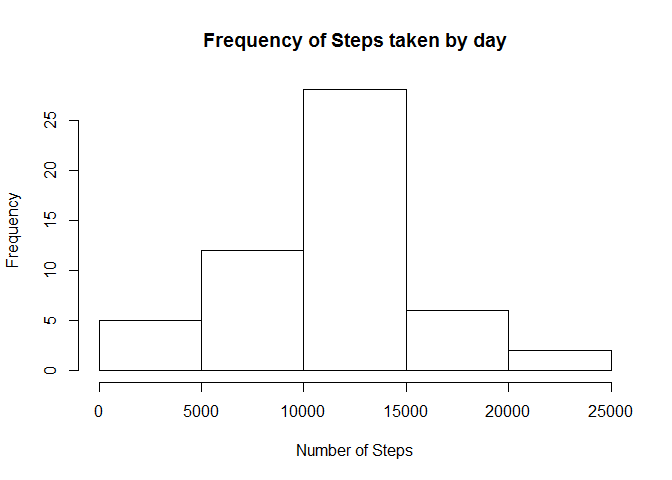
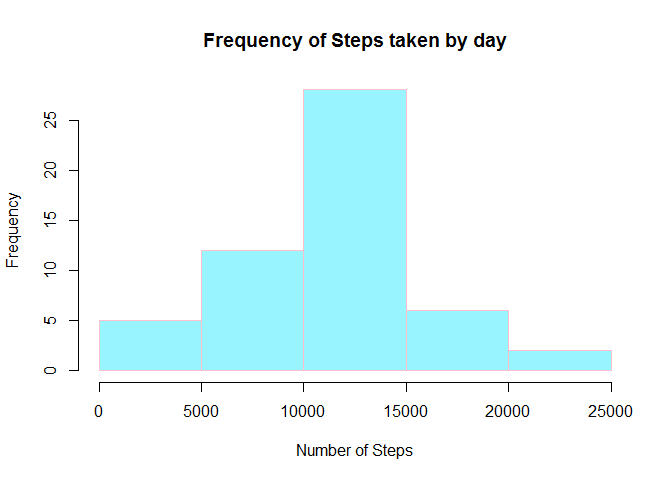
Improved graphs layout and doc format

Changed region(s): [[0.125, 0.1875, 0.9375, 0.7812]]

diff --git a/PA1_template.html b/PA1_template.html
@@ -57,16 +57,23 @@ if (window.hljs && document.readyState && document.readyState === "complete") {
 
 <div id="loading-and-preprocessing-the-data" class="section level3">
 <h3>Loading and preprocessing the data</h3>
+<blockquote>
 <p>Show any code that is needed to</p>
-<ol style="list-style-type: decimal">
-<li><p>Load the data (i.e. <code>read.csv()</code>)</p></li>
-<li><p>Process/transform the data (if necessary) into a format suitable for your analysis</p></li>
-</ol>
+</blockquote>
+<blockquote>
+<blockquote>
+<p>1. Load the data (i.e. <code>read.csv()</code>)</p>
+</blockquote>
+</blockquote>
+<blockquote>
+<blockquote>
+<p>2. Process/transform the data (if necessary) into a format suitable for your analysis</p>
+</blockquote>
+</blockquote>
 <pre class="r"><code>setwd(&quot;C:/Users/Yago/Documents/Statistical Studies/The Data Science Track/Reproducible Research/Assignment 1&quot;)
 require(&quot;dplyr&quot;)</code></pre>
-<pre><code>## Loading required package: dplyr</code></pre>
-<pre><code>## Warning: package 'dplyr' was built under R version 3.1.2</code></pre>
-<pre><code>## 
+<pre><code>## Loading required package: dplyr
+## 
 ## Attaching package: 'dplyr'
 ## 
 ## The following object is masked from 'package:stats':
@@ -85,29 +92,35 @@ data&lt;-tbl_df(data)</code></pre>
 <div id="what-is-mean-total-number-of-steps-taken-per-day" class="section level3">
 <h3>What is mean total number of steps taken per day?</h3>
 <p>For this part of the assignment, you can ignore the missing values in the dataset.</p>
-<ol style="list-style-type: decimal">
-<li>Make a histogram of the total number of steps taken each day</li>
-</ol>
+<blockquote>
+<blockquote>
+<p>1. Make a histogram of the total number of steps taken each day</p>
+</blockquote>
+</blockquote>
 <pre class="r"><code>by_day&lt;-
      data %&gt;% 
      group_by(date) %&gt;% 
      summarise(total.steps=sum(steps))
 
-hist(by_day$total.steps, xlab= &quot;Number of Steps&quot;, main=&quot;Frequency of Steps taken by day&quot;)</code></pre>
[1 lines of base64/hex data omitted]
-<ol start="2" style="list-style-type: decimal">
-<li>Calculate and report the <strong>mean</strong> and <strong>median</strong> total number of steps taken per day</li>
-</ol>
+hist(by_day$total.steps, col=&quot;cadetblue1&quot;, border=&quot;pink&quot;, xlab= &quot;Number of Steps&quot;, main=&quot;Frequency of Steps taken by day&quot;)</code></pre>
[1 lines of base64/hex data omitted]
+<blockquote>
+<blockquote>
+<p>2. Calculate and report the <strong>mean</strong> and <strong>median</strong> total number of steps taken per day</p>
+</blockquote>
+</blockquote>
 <pre class="r"><code>mean&lt;-mean((by_day$total.steps), na.rm=TRUE)
 median&lt;-median((by_day$total.steps), na.rm=TRUE)</code></pre>
-<p>The <strong>mean</strong> total number of steps taken per day is 10766.19.</p>
-<p>The <strong>median</strong> total number of steps taken per day is 10765.</p>
+<p>The <strong>mean</strong> total number of steps taken per day is <strong>10766.19</strong>.</p>
+<p>The <strong>median</strong> total number of steps taken per day is <strong>10765</strong>.</p>
 </div>
 <div id="what-is-the-average-daily-activity-pattern" class="section level3">
 <h3>What is the average daily activity pattern?</h3>
-<ol style="list-style-type: decimal">
-<li>Make a time series plot (i.e. type = “l”) of the 5-minute interval (x-axis) and the average number of steps taken, averaged across all days (y-axis)</li>
-</ol>
+<blockquote>
+<blockquote>
+<p>1. Make a time series plot (i.e. type = “l”) of the 5-minute interval (x-axis) and the average number of steps taken, averaged across all days (y-axis)</p>
+</blockquote>
+</blockquote>
 <pre class="r"><code>data$five.interval&lt;-as.factor(data$interval)
 five_Interval&lt;-
      data %&gt;%
@@ -116,12 +129,14 @@ five_Interval&lt;-
 
 five_Interval$interval &lt;- as.numeric(as.character(five_Interval$five.interval))
 
-plot(five_Interval$interval, five_Interval$mean.steps, type = &quot;l&quot;, xlab=&quot;5-Minute Intervals&quot;, 
+plot(five_Interval$interval, five_Interval$mean.steps, type = &quot;l&quot;, col=4, xlab=&quot;5-Minute Intervals&quot;, 
       ylab=&quot;Mean Steps&quot;, main=&quot;Average Daily Activity Pattern&quot; )</code></pre>
[1 lines of base64/hex data omitted]
-<ol start="2" style="list-style-type: decimal">
-<li>Which 5-minute interval, on average across all the days in the dataset, contains the maximum number of steps?</li>
-</ol>
[1 lines of base64/hex data omitted]
+<blockquote>
+<blockquote>
+<p>2. Which 5-minute interval, on average across all the days in the dataset, contains the maximum number of steps?</p>
+</blockquote>
+</blockquote>
 <pre class="r"><code>max_Steps_Interval&lt;-which.max(five_Interval$mean.steps)
 print(five_Interval[max_Steps_Interval,])</code></pre>
 <pre><code>## Source: local data frame [1 x 3]
@@ -132,57 +147,70 @@ print(five_Interval[max_Steps_Interval,])</code></pre>
 <div id="imputing-missing-values" class="section level3">
 <h3>Imputing missing values</h3>
 <p>Note that there are a number of days/intervals where there are missing values (coded as NA). The presence of missing days may introduce bias into some calculations or summaries of the data.</p>
-<ol style="list-style-type: decimal">
-<li>Calculate and report the total number of missing values in the dataset (i.e. the total number of rows with NAs)</li>
-</ol>
+<blockquote>
+<blockquote>
+<p>1. Calculate and report the total number of missing values in the dataset (i.e. the total number of rows with NAs)</p>
+</blockquote>
+</blockquote>
 <pre class="r"><code>data$weekday &lt;- weekdays(as.Date(data$date))
 data$weekday &lt;- factor(data$weekday, levels= c(&quot;Monday&quot;, 
                                                        &quot;Tuesday&quot;, &quot;Wednesday&quot;, &quot;Thursday&quot;, &quot;Friday&quot;, &quot;Saturday&quot;, &quot;Sunday&quot;))
 
 sum(is.na(data$steps))  </code></pre>
 <pre><code>## [1] 2304</code></pre>
-<ol start="2" style="list-style-type: decimal">
-<li>Devise a strategy for filling in all of the missing values in the dataset. The strategy does not need to be sophisticated. For example, you could use the mean/median for that day, or the mean for that 5-minute interval, etc.</li>
-</ol>
+<blockquote>
+<blockquote>
+<p>2. Devise a strategy for filling in all of the missing values in the dataset. The strategy does not need to be sophisticated. For example, you could use the mean/median for that day, or the mean for that 5-minute interval, etc.</p>
+</blockquote>
+</blockquote>
 <p>I calculated the average number of steps for each day of week/interval combination and completed the dataset by substituting the corresponding value for each day of the week/interval that had NAs.</p>
 <pre class="r"><code>activity_day &lt;- data %&gt;% 
      group_by(weekday, five.interval) %&gt;% 
      summarise(mean.steps = mean(steps, na.rm =TRUE))</code></pre>
-<ol start="3" style="list-style-type: decimal">
-<li>Create a new dataset that is equal to the original dataset but with the missing data filled in.</li>
-</ol>
+<blockquote>
+<blockquote>
+<p>3. Create a new dataset that is equal to the original dataset but with the missing data filled in.</p>
+</blockquote>
+</blockquote>
 <pre class="r"><code>activity_impute &lt;- merge(data, activity_day, by=c(&quot;weekday&quot;,&quot;five.interval&quot;))
 activity_impute$impute.steps &lt;- ifelse(is.na(activity_impute$steps), 
                                        activity_impute$mean.steps, activity_impute$steps)</code></pre>
-<ol start="4" style="list-style-type: decimal">
-<li>Make a histogram of the total number of steps taken each day and Calculate and report the mean and median total number of steps taken per day. Do these values differ from the estimates from the first part of the assignment? What is the impact of imputing missing data on the estimates of the total daily number of steps?</li>
-</ol>
+<blockquote>
+<blockquote>
+<p>4. Make a histogram of the total number of steps taken each day and Calculate and report the mean and median total number of steps taken per day. Do these values differ from the estimates from the first part of the assignment? What is the impact of imputing missing data on the estimates of the total daily number of steps?</p>
+</blockquote>
+</blockquote>
 <pre class="r"><code>activity_impute_mean &lt;- activity_impute %&gt;% 
      group_by(date) %&gt;% 
      summarise(total.steps = sum(impute.steps))
 
 hist(activity_impute_mean$total.steps, 
+     col=&quot;cadetblue1&quot;, border=&quot;pink&quot;,
      xlab=&quot;Number of Steps&quot;,
      main = &quot;Frequency of Steps taken by Day (with no NAs)&quot;)</code></pre>
[2 lines of base64/hex data omitted]
 <pre class="r"><code>new_mean&lt;-mean((activity_impute_mean$total.steps), na.rm=TRUE)
 new_median&lt;-median((activity_impute_mean$total.steps), na.rm=TRUE)</code></pre>
-<p>The mean of the dataset without NAs is 10873.55, which compares to the value of 10766.19 obtained with the dataset that included NAs.</p>
-<p>The median of the dataset without NAs is 11015, which compares to the value of 10765 obtained with the dataset that included NAs.</p>
+<p>The mean of the dataset without NAs is <strong>10873.55</strong>, which compares to the value of <strong>10766.19</strong> obtained with the dataset that included NAs.</p>
+<p>The median of the dataset without NAs is <strong>11015</strong>, which compares to the value of <strong>10765</strong> obtained with the dataset that included NAs.</p>
 </div>
 <div id="are-there-differences-in-activity-patterns-between-weekdays-and-weekends" class="section level2">
 <h2>Are there differences in activity patterns between weekdays and weekends?</h2>
 <p>For this part the weekdays() function may be of some help here. Use the dataset with the filled-in missing values for this part.</p>
-<ol style="list-style-type: decimal">
-<li>Create a new factor variable in the dataset with two levels – “weekday” and “weekend” indicating whether a given date is a weekday or weekend day.</li>
-</ol>
+<blockquote>
+<blockquote>
+<p>1. Create a new factor variable in the dataset with two levels â âweekdayâ and âweekendâ indicating whether a given date is a weekday or weekend day.</p>
+</blockquote>
+</blockquote>
 <pre class="r"><code>activity_impute &lt;- activity_impute %&gt;% 
           mutate(weekend = ifelse(weekday == &quot;Saturday&quot; | weekday == &quot;Sunday&quot;, &quot;weekend&quot;, &quot;weekday&quot;))
 activity_impute_mean &lt;- activity_impute %&gt;% group_by(weekend, interval) %&gt;% 
      summarise(mean.steps = mean(impute.steps))</code></pre>
-<ol start="2" style="list-style-type: decimal">
-<li>Make a panel plot containing a time series plot (i.e. type = “l”) of the 5-minute interval (x-axis) and the average number of steps taken, averaged across all weekday days or weekend days (y-axis). See the README file in the GitHub repository to see an example of what this plot should look like using simulated data.</li>
-</ol>
+<blockquote>
+<blockquote>
+<p>2. Make a panel plot containing a time series plot (i.e. type = “l”) of the 5-minute interval (x-axis) and the average number of steps taken, averaged across all weekday days or weekend days (y-axis). See the README file in the GitHub repository to see an example of what this plot should look like using simulated data.</p>
+</blockquote>
+</blockquote>
 <pre class="r"><code>xyplot(mean.steps ~ interval | weekend, data = activity_impute_mean, 
        type = &quot;l&quot;, layout = c(1,2), xlab = &quot;Interval&quot;, ylab = &quot;# of Steps&quot;, 
        main = &quot;5-minute Interval for Weekends and Weekdays (Average Steps)&quot;)</code></pre>

diff --git a/PA1_template.md b/PA1_template.md
@@ -2,11 +2,11 @@
 
 ### Loading and preprocessing the data
 
-Show any code that is needed to
+>Show any code that is needed to
 
-1. Load the data (i.e. `read.csv()`)
+>>1\. Load the data (i.e. `read.csv()`)
 
-2. Process/transform the data (if necessary) into a format suitable for your analysis
+>>2\. Process/transform the data (if necessary) into a format suitable for your analysis
 
 
 ```r
@@ -16,13 +16,6 @@ require("dplyr")
 
 ```
 ## Loading required package: dplyr
-```
-
-```
-## Warning: package 'dplyr' was built under R version 3.1.2
-```
-
-```
 ## 
 ## Attaching package: 'dplyr'
 ## 
@@ -53,7 +46,7 @@ data<-tbl_df(data)
 For this part of the assignment, you can ignore the missing values in
 the dataset.
 
-1. Make a histogram of the total number of steps taken each day
+>>1\. Make a histogram of the total number of steps taken each day
 
 
 ```r
@@ -62,26 +55,26 @@ by_day<-
      group_by(date) %>% 
      summarise(total.steps=sum(steps))
 
-hist(by_day$total.steps, xlab= "Number of Steps", main="Frequency of Steps taken by day")
+hist(by_day$total.steps, col="cadetblue1", border="pink", xlab= "Number of Steps", main="Frequency of Steps taken by day")
 ```
 
 ![](PA1_template_files/figure-html/unnamed-chunk-2-1.png) 
 
-2. Calculate and report the **mean** and **median** total number of steps taken per day
+>>2\. Calculate and report the **mean** and **median** total number of steps taken per day
 
 ```r
 mean<-mean((by_day$total.steps), na.rm=TRUE)
 median<-median((by_day$total.steps), na.rm=TRUE)
 ```
 
-The **mean** total number of steps taken per day is 10766.19.
+The **mean** total number of steps taken per day is **10766.19**.
 
-The **median** total number of steps taken per day is 10765.
+The **median** total number of steps taken per day is **10765**.
 
 
 ### What is the average daily activity pattern?
 
-1. Make a time series plot (i.e. type = "l") of the 5-minute interval (x-axis) and the average number of steps taken, averaged across all days (y-axis)
+>>1\. Make a time series plot (i.e. type = "l") of the 5-minute interval (x-axis) and the average number of steps taken, averaged across all days (y-axis)
 
 
 ```r
@@ -93,13 +86,13 @@ five_Interval<-
 
 five_Interval$interval <- as.numeric(as.character(five_Interval$five.interval))
 
-plot(five_Interval$interval, five_Interval$mean.steps, type = "l", xlab="5-Minute Intervals", 
+plot(five_Interval$interval, five_Interval$mean.steps, type = "l", col=4, xlab="5-Minute Intervals", 
       ylab="Mean Steps", main="Average Daily Activity Pattern" )
 ```
 
 ![](PA1_template_files/figure-html/unnamed-chunk-4-1.png) 
 
-2. Which 5-minute interval, on average across all the days in the dataset, contains the maximum number of steps?
+>>2\. Which 5-minute interval, on average across all the days in the dataset, contains the maximum number of steps?
 
 ```r
 max_Steps_Interval<-which.max(five_Interval$mean.steps)
@@ -118,7 +111,7 @@ print(five_Interval[max_Steps_Interval,])
 
 Note that there are a number of days/intervals where there are missing values (coded as NA). The presence of missing days may introduce bias into some calculations or summaries of the data.
 
-1. Calculate and report the total number of missing values in the dataset (i.e. the total number of rows with NAs)
+>>1\. Calculate and report the total number of missing values in the dataset (i.e. the total number of rows with NAs)
 
 ```r
 data$weekday <- weekdays(as.Date(data$date))
@@ -132,7 +125,7 @@ sum(is.na(data$steps))
 ## [1] 2304
 ```
 
-2. Devise a strategy for filling in all of the missing values in the dataset. The strategy does not need to be sophisticated. For example, you could use the mean/median for that day, or the mean for that 5-minute interval, etc.
+>>2\. Devise a strategy for filling in all of the missing values in the dataset. The strategy does not need to be sophisticated. For example, you could use the mean/median for that day, or the mean for that 5-minute interval, etc.
 
 I calculated the average number of steps for each day of week/interval combination and completed the dataset by substituting the corresponding value for each day of the week/interval that had NAs.
 
@@ -143,7 +136,7 @@ activity_day <- data %>%
      summarise(mean.steps = mean(steps, na.rm =TRUE))
 ```
 
-3. Create a new dataset that is equal to the original dataset but with the missing data filled in.
+>>3\. Create a new dataset that is equal to the original dataset but with the missing data filled in.
 
 ```r
 activity_impute <- merge(data, activity_day, by=c("weekday","five.interval"))
@@ -151,7 +144,7 @@ activity_impute$impute.steps <- ifelse(is.na(activity_impute$steps),
                                        activity_impute$mean.steps, activity_impute$steps)
 ```
 
-4. Make a histogram of the total number of steps taken each day and Calculate and report the mean and median total number of steps taken per day. Do these values differ from the estimates from the first part of the assignment? What is the impact of imputing missing data on the estimates of the total daily number of steps?
+>>4\. Make a histogram of the total number of steps taken each day and Calculate and report the mean and median total number of steps taken per day. Do these values differ from the estimates from the first part of the assignment? What is the impact of imputing missing data on the estimates of the total daily number of steps?
 
 ```r
 activity_impute_mean <- activity_impute %>% 
@@ -159,6 +152,7 @@ activity_impute_mean <- activity_impute %>%
      summarise(total.steps = sum(impute.steps))
 
 hist(activity_impute_mean$total.steps, 
+     col="cadetblue1", border="pink",
      xlab="Number of Steps",
      main = "Frequency of Steps taken by Day (with no NAs)")
 ```
@@ -170,14 +164,14 @@ new_mean<-mean((activity_impute_mean$total.steps), na.rm=TRUE)
 new_median<-median((activity_impute_mean$total.steps), na.rm=TRUE)
 ```
 
-The mean of the dataset without NAs is 10873.55, which compares to the value of 10766.19 obtained with the dataset that included NAs.
+The mean of the dataset without NAs is **10873.55**, which compares to the value of **10766.19** obtained with the dataset that included NAs.
 
-The median of the dataset without NAs is 11015, which compares to the value of 10765 obtained with the dataset that included NAs.
+The median of the dataset without NAs is **11015**, which compares to the value of **10765** obtained with the dataset that included NAs.
 
 ## Are there differences in activity patterns between weekdays and weekends?
 For this part the weekdays() function may be of some help here. Use the dataset with the filled-in missing values for this part.
 
-1. Create a new factor variable in the dataset with two levels – “weekday” and “weekend” indicating whether a given date is a weekday or weekend day.
+>>1\. Create a new factor variable in the dataset with two levels â âweekdayâ and âweekendâ indicating whether a given date is a weekday or weekend day.
 
 ```r
 activity_impute <- activity_impute %>% 
@@ -186,7 +180,7 @@ activity_impute_mean <- activity_impute %>% group_by(weekend, interval) %>%
      summarise(mean.steps = mean(impute.steps))
 ```
 
-2. Make a panel plot containing a time series plot (i.e. type = "l") of the 5-minute interval (x-axis) and the average number of steps taken, averaged across all weekday days or weekend days (y-axis). See the README file in the GitHub repository to see an example of what this plot should look like using simulated data.
+>>2\. Make a panel plot containing a time series plot (i.e. type = "l") of the 5-minute interval (x-axis) and the average number of steps taken, averaged across all weekday days or weekend days (y-axis). See the README file in the GitHub repository to see an example of what this plot should look like using simulated data.
 
 ```r
 xyplot(mean.steps ~ interval | weekend, data = activity_impute_mean, 
